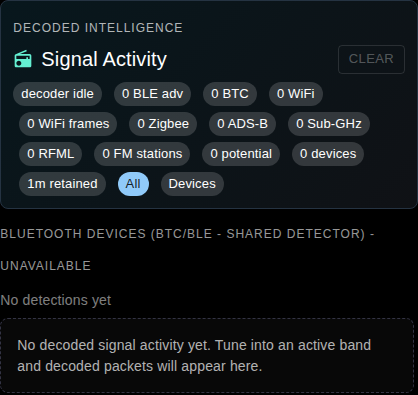
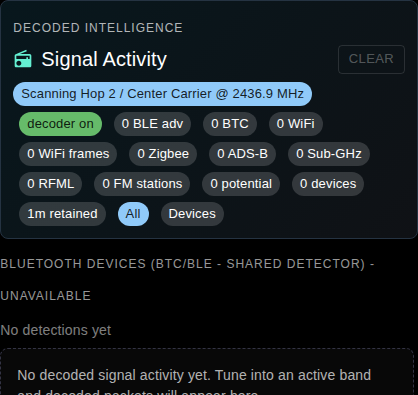
Show scanner hopping in public demo

diff --git a/backend/tests/test_demo_iq_session.py b/backend/tests/test_demo_iq_session.py
@@ -81,3 +81,30 @@ def test_iq_replay_sdr_reads_generated_demo_samples(tmp_path):
     assert info["sample_rate_sps"] == 200000
     assert replay.current_device_label() == "Public synthetic 2.4 GHz SDR-Shark demo"
     assert replay.mimo_info()["enabled"] is False
+
+
+def test_iq_replay_sdr_configure_receiver_updates_stream_info(tmp_path):
+    generator = _load_demo_generator()
+    session_root = tmp_path / "iq-sessions"
+    args = generator.build_parser().parse_args([
+        "--root", str(session_root),
+        "--session-id", "public-demo-test",
+        "--duration", "0.25",
+        "--sample-rate", "200000",
+        "--chunk-samples", "1024",
+    ])
+    generator.generate_session(args)
+
+    replay = IQReplaySDR(session_root / "public-demo-test", loop=False, speed=20, size=1024)
+    replay.configure_receiver(
+        frequency=2_438_000_000,
+        sample_rate=1_000_000,
+        bandwidth=750_000,
+        gain=22,
+    )
+
+    info = replay.iq_tap_info()
+    assert info["center_freq_hz"] == 2_438_000_000
+    assert info["sample_rate_sps"] == 1_000_000
+    assert info["bandwidth_hz"] == 750_000
+    assert info["gain_db"] == 22

diff --git a/backend/src/sdr_plot_backend/iq_session.py b/backend/src/sdr_plot_backend/iq_session.py
@@ -281,8 +281,15 @@ class IQReplaySDR:
     def current_device_label(self) -> str:
         return str(self.metadata.get("label") or self.device_id or "IQ replay")
 
-    def configure_receiver(self, **_: Any) -> None:
-        return
+    def configure_receiver(self, **kwargs: Any) -> None:
+        if kwargs.get("frequency") is not None:
+            self.frequency = float(kwargs["frequency"])
+        if kwargs.get("sample_rate") is not None:
+            self.sample_rate = float(kwargs["sample_rate"])
+        if kwargs.get("bandwidth") is not None:
+            self.bandwidth = float(kwargs["bandwidth"])
+        if kwargs.get("gain") is not None:
+            self.gain = float(kwargs["gain"])
 
     def set_frequency(self, frequency: float) -> None:
         self.frequency = float(frequency)

diff --git a/README.md b/README.md
@@ -11,11 +11,11 @@ The project demonstrates the system layer around RF ML: live device streaming, b
 
 The project is intended for lawful RF engineering, lab validation, education, spectrum monitoring, and passive signal-awareness workflows. Operators are responsible for complying with all applicable radio, privacy, and computer misuse laws in their jurisdiction.
 
-![SDR-Shark public Docker demo replay](docs/media/sdr-shark-demo.gif)
+![SDR-Shark public Docker demo scanner hopping sequence](docs/media/sdr-shark-demo.gif)
 
 ## Public Demo Mode
 
-SDR-Shark includes a hardware-free public demo that generates deterministic synthetic IQ replay data locally. The demo is public-safe: it shows tones, moving noise floor, and burst activity without committing real RF captures or requiring SDR hardware.
+SDR-Shark includes a hardware-free public demo that generates deterministic synthetic IQ replay data locally. The demo is public-safe: it shows a scanner-driven hopping sequence, tones, moving noise floor, and burst activity without committing real RF captures or requiring SDR hardware.
 
 Portfolio case study: [RTG Spectrum SDR-Shark](https://rtgspectrum.com/sdr-shark/)
 
@@ -60,6 +60,7 @@ See [docs/demo.md](docs/demo.md) for API checks, troubleshooting, and replay det
 ## What This Proves
 
 - One-command Docker path for reviewers, customers, and collaborators.
+- Scanner-driven hop sequence across synthetic 2.4 GHz dwell steps.
 - Browser-based spectrum and waterfall UI driven by replayed IQ.
 - Backend FFT, max-hold, persistence, and replay session plumbing.
 - Hardware-aware SDR architecture that can run live, gateway-backed, or replay-backed.
@@ -67,7 +68,7 @@ See [docs/demo.md](docs/demo.md) for API checks, troubleshooting, and replay det
 
 ## Public Demo Evidence
 
-The captures below were generated from the Docker demo using the synthetic `public-demo-2p4ghz` replay session.
+The captures below were generated from the Docker demo using the synthetic `public-demo-2p4ghz` replay session and a short public demo scanner hop plan.
 
 | Live replay dashboard | Spectrum and waterfall detail | Signal activity panel |
 |---|---|---|

diff --git a/docs/demo.md b/docs/demo.md
@@ -1,6 +1,6 @@
 # SDR-Shark Public Demo Mode
 
-SDR-Shark can run a hardware-free public demo using deterministic synthetic IQ replay data. The demo data is generated locally and is public-safe: it contains synthetic tones, noise-floor movement, and burst activity, not captured RF from a real environment.
+SDR-Shark can run a hardware-free public demo using deterministic synthetic IQ replay data. The demo data is generated locally and is public-safe: it contains a scanner-driven hopping sequence, synthetic tones, noise-floor movement, and burst activity, not captured RF from a real environment.
 
 Public case study: [RTG Spectrum SDR-Shark](https://rtgspectrum.com/sdr-shark/)
 
@@ -49,6 +49,7 @@ Stop the demo with:
 ## What The Demo Shows
 
 - A replay-backed SDR source centered at 2.437 GHz.
+- A scanner-driven hop sequence across synthetic 2.4 GHz dwell steps.
 - A live FFT trace with a moving noise floor and multiple synthetic carriers.
 - Waterfall activity with short burst clusters.
 - Max-hold and persistence behavior from repeatable signal movement.
@@ -79,7 +80,7 @@ Successful demo replay should show `active: true` from `/api/iq/replay/status` a
 
 ## Public Demo Media
 
-The checked-in demo media was captured from the Docker demo using the synthetic `public-demo-2p4ghz` replay session:
+The checked-in demo media was captured from the Docker demo using the synthetic `public-demo-2p4ghz` replay session and a short public demo scanner hop plan:
 
 - [Replay GIF](media/sdr-shark-demo.gif)
 - [Full dashboard screenshot](media/sdr-shark-public-demo-dashboard.png)
